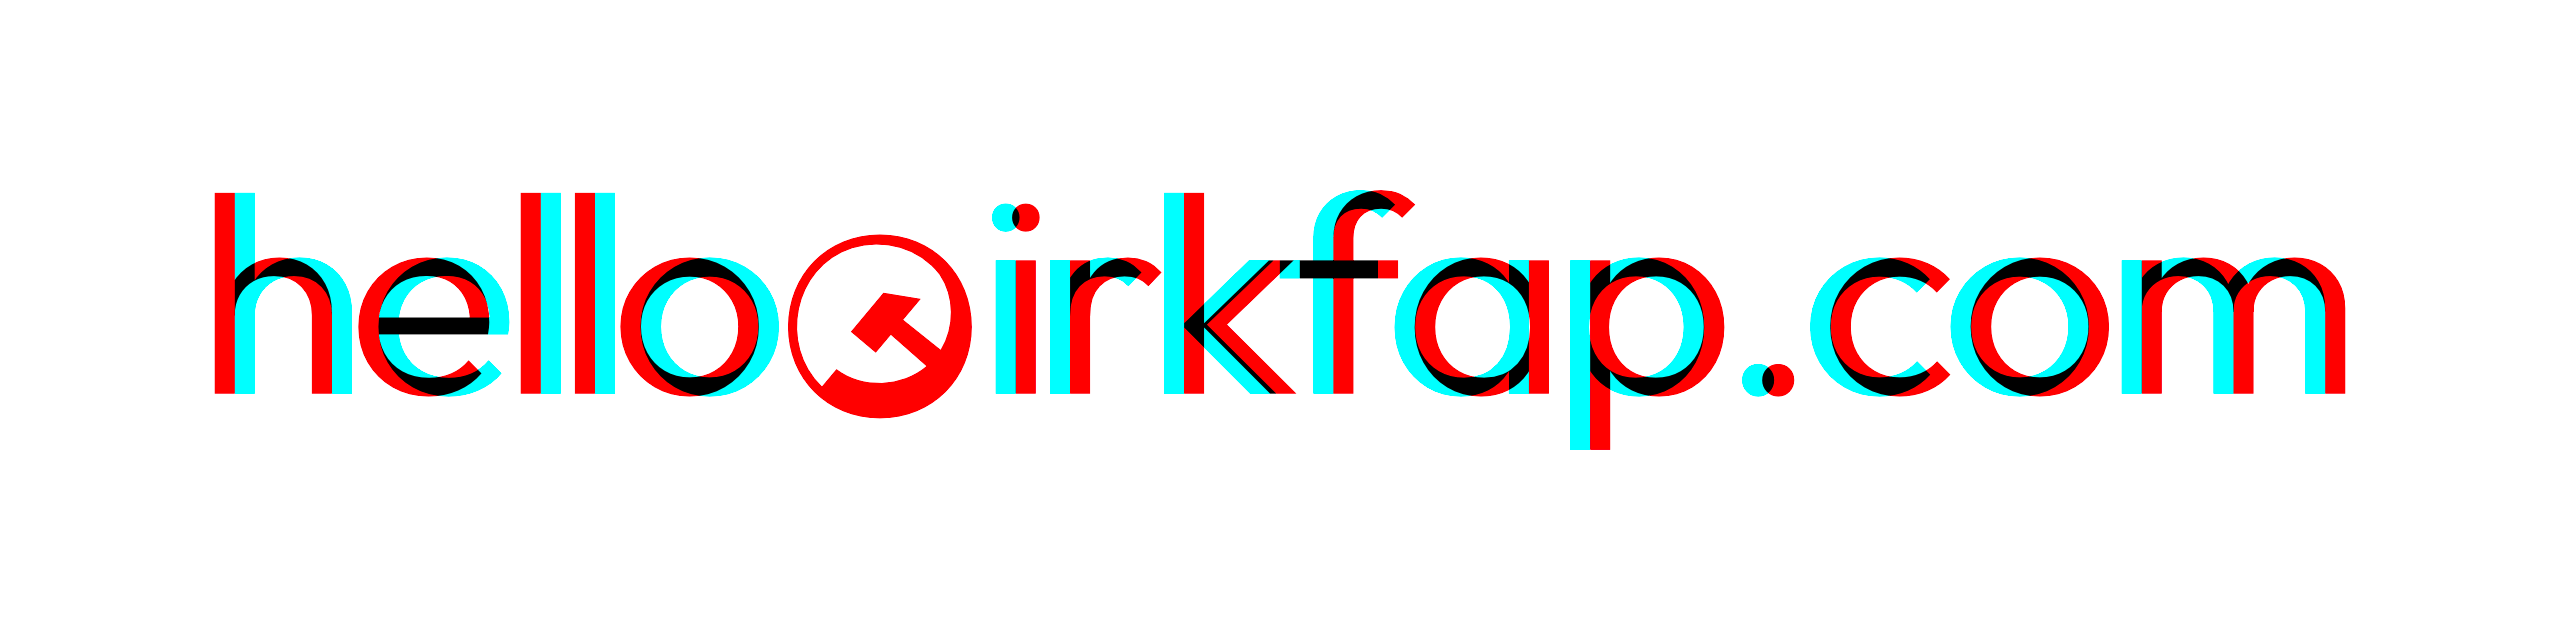
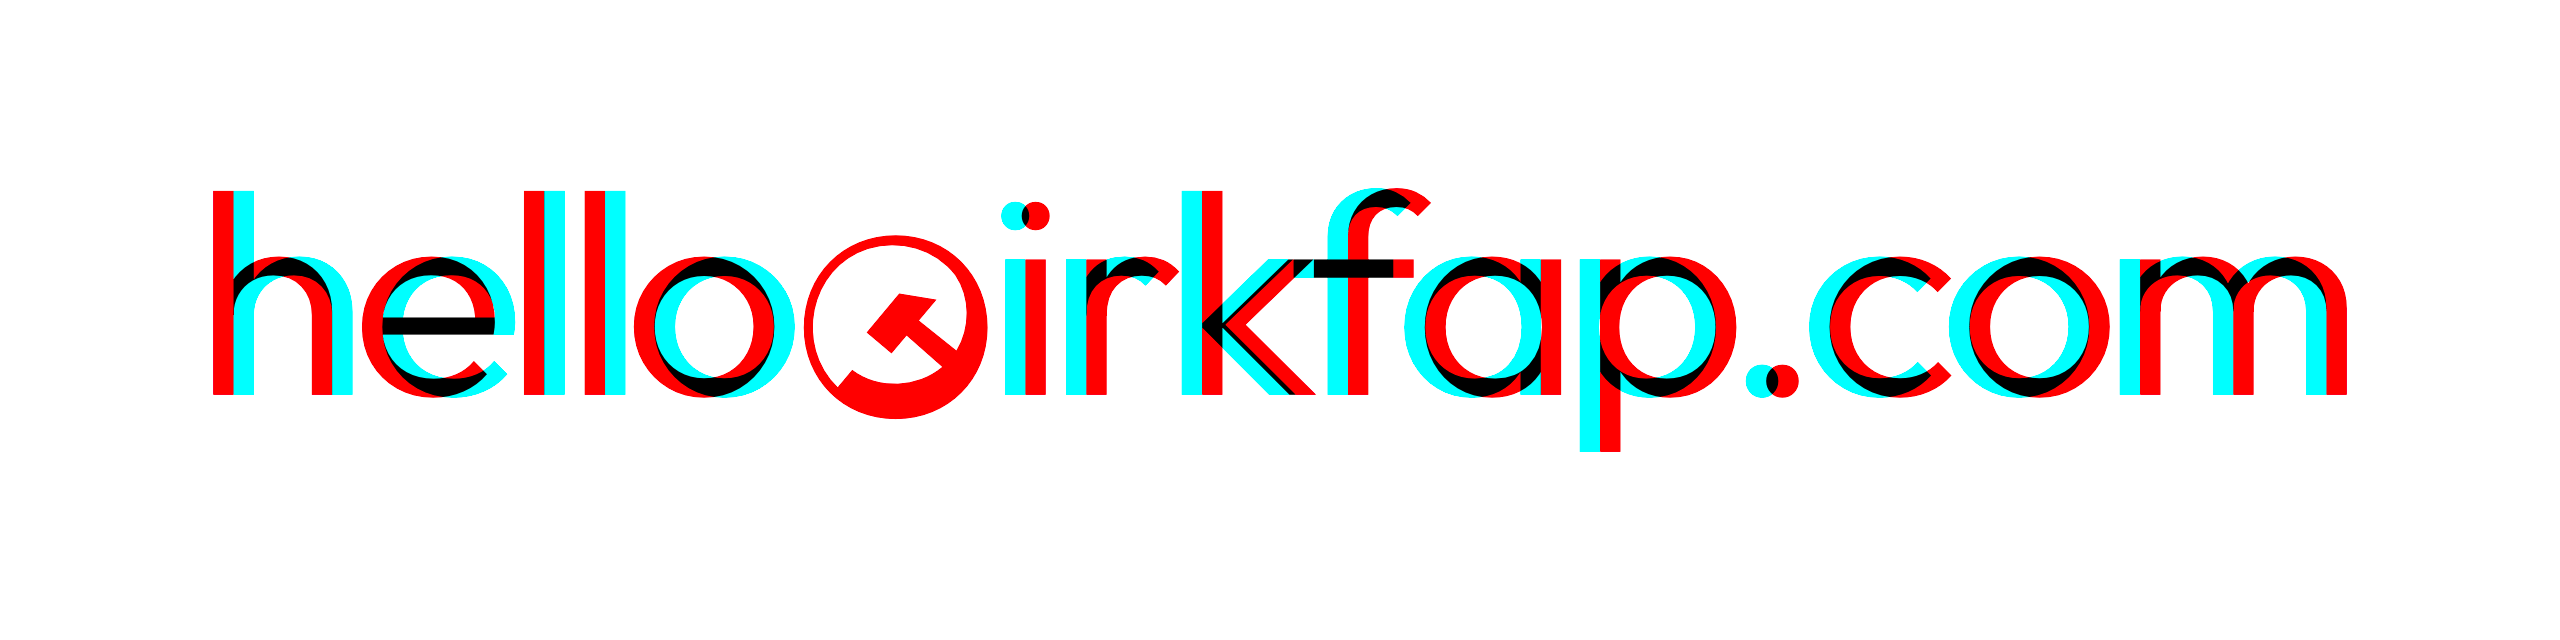
refactor: add proper kerning, remove intermediate stuff

diff --git a/public/index.html b/public/index.html
@@ -70,6 +70,8 @@ _      __     ___     _    _        ______  _____     ___
       display: table-cell;
       text-align: center;
       vertical-align: middle;
+
+      background: white;
     }
     #EHLO svg, #EHLO img {
       object-fit: contain;
@@ -152,6 +154,7 @@ _      __     ___     _    _        ______  _____     ___
          -moz-user-select: none;
           -ms-user-select: none;
               user-select: none;
+
       mix-blend-mode: difference;
 
       display: inline-block;
@@ -203,7 +206,7 @@ _      __     ___     _    _        ______  _____     ___
   <div id="EHLO">
 
     <h1 class="ehlo">
-      hello<i class="font-icon" aria-label="at">&#xe800;</i>irkfap.com
+      <span>hello<i class="font-icon" aria-label="at">&#xe800;</i>irkfap.com</span>
       <div class="blend" aria-hidden="true">
         <span class="left">hello</span><span class="invisible">@</span><span class="right">irkfap.com</span>
       </div>
